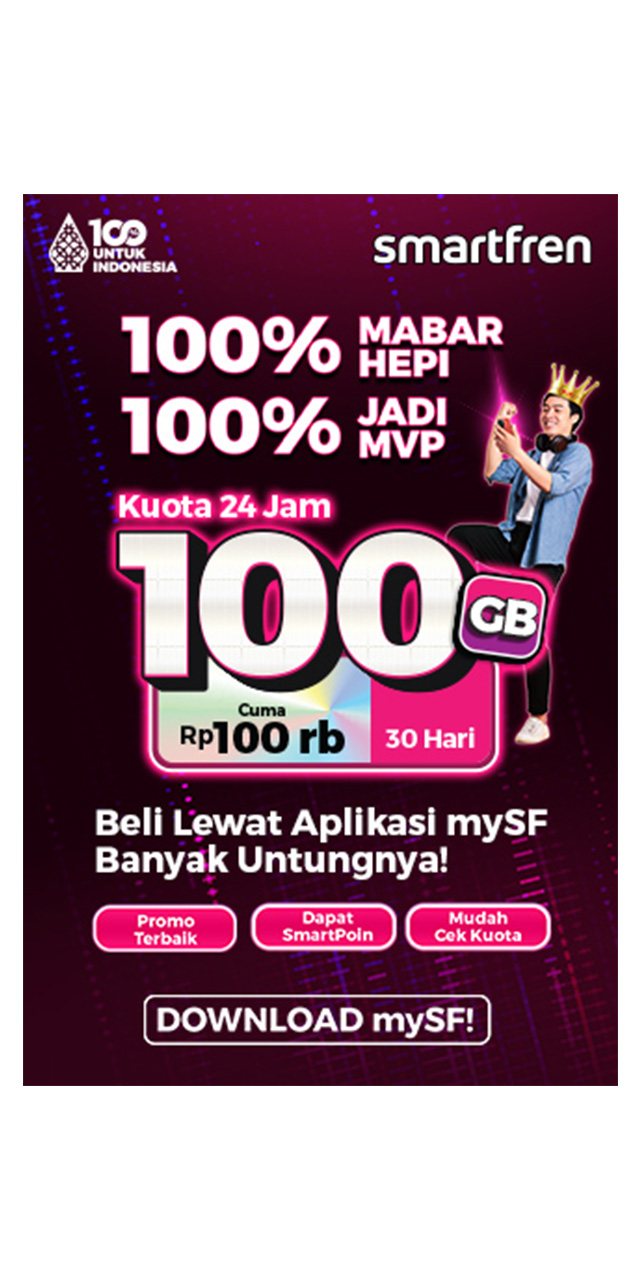
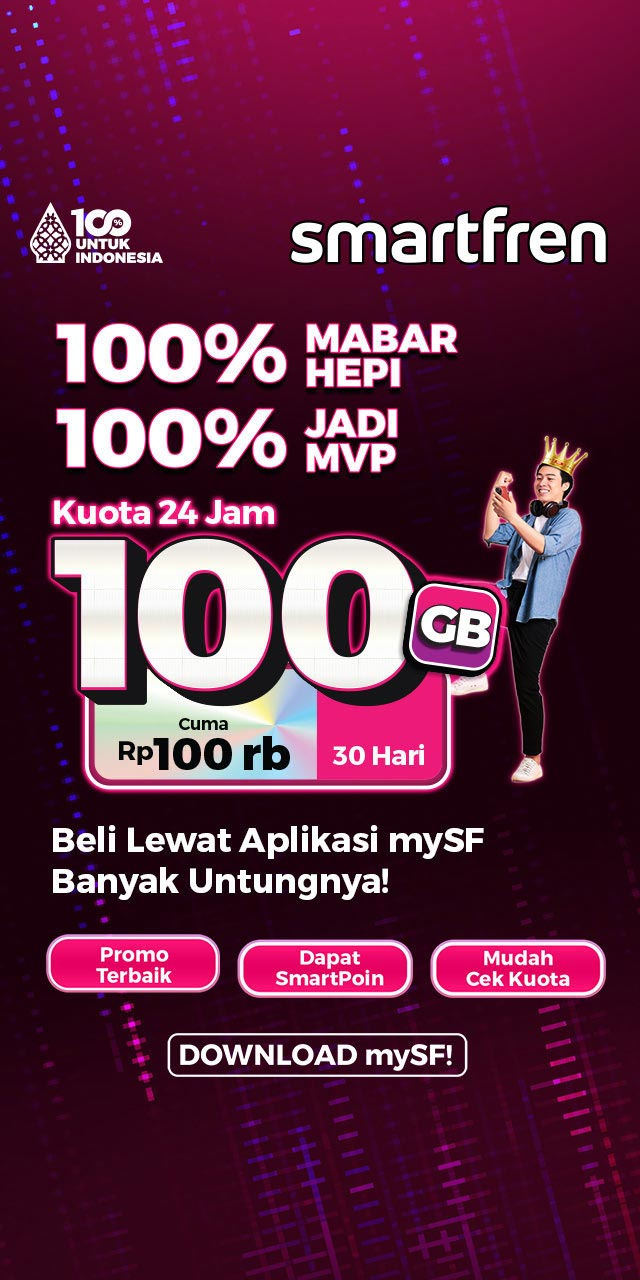
srfsfwad

diff --git a/m.idntimes/cpm-premium/smartfren/kv-100gb/index.html b/m.idntimes/cpm-premium/smartfren/kv-100gb/index.html
@@ -1181,18 +1181,15 @@ h.end=i=function(){s.className=s.className.replace(RegExp(' ?'+y),'')};
                                 height: auto;
                             } 
                         </style>       
-<!--
                         <div class="parallax_luar">
                             <div class="parallaxA_abs">
                                 <div class="parallaxA_fix">
-                                    <a href="https://www.smartfren.com/starterpack/pilihinternet/usim/postsuper?entrypoint=footer_buttonItem_clicked&src=pilihsim&producttype=postpaid
-&utm_source=IDNTIMES&utm_medium=Banner&utm_campaign=Havas_Branding_IDN_100GB&utm_content=IDN_100GB_Parallax_CS" target="_blank">
+                                    <a href="https://www.smartfren.com/starterpack/pilihinternet/usim/postsuper?entrypoint=footer_buttonItem_clicked&src=pilihsim&producttype=postpaid&utm_source=IDNTIMES&utm_medium=Banner&utm_campaign=Havas_Branding_IDN_100GB&utm_content=IDN_100GB_Parallax_CS" target="_blank">
                                         <img src="src/640x1280-1.jpg">
                                     </a>
                                 </div>
                             </div>
                         </div>
--->
                         
                         
                         

diff --git a/idntimes/cpm-premium/smartfren/kv-100gb/index.html b/idntimes/cpm-premium/smartfren/kv-100gb/index.html
@@ -669,12 +669,9 @@
 			</div>
 			<div class="bottom-sticky-ads" style="display: block">
 				<div class="bottom-sticky-ads__wrapper">
-<!--
-                    <a href="https://www.smartfren.com/starterpack/pilihinternet/usim/postsuper?entrypoint=footer_buttonItem_clicked&src=pilihsim&producttype=postpaid
-&utm_source=IDNTIMES&utm_medium=Banner&utm_campaign=Havas_Branding_IDN_100GB&utm_content=IDN_100GB_Desktop_Sticky_Buttom_CS" target="_blank">
-                        <img src="728x90-2.jpg" style="max-width: 728px; height: 90px;">
+                    <a href="https://www.smartfren.com/starterpack/pilihinternet/usim/postsuper?entrypoint=footer_buttonItem_clicked&src=pilihsim&producttype=postpaid&utm_source=IDNTIMES&utm_medium=Banner&utm_campaign=Havas_Branding_IDN_100GB&utm_content=IDN_100GB_Desktop_Sticky_Buttom_CS" target="_blank">
+                        <img src="728x90-1.jpg" style="max-width: 728px; height: 90px;">
                     </a>
--->
                     
 				</div>
 			</div>
